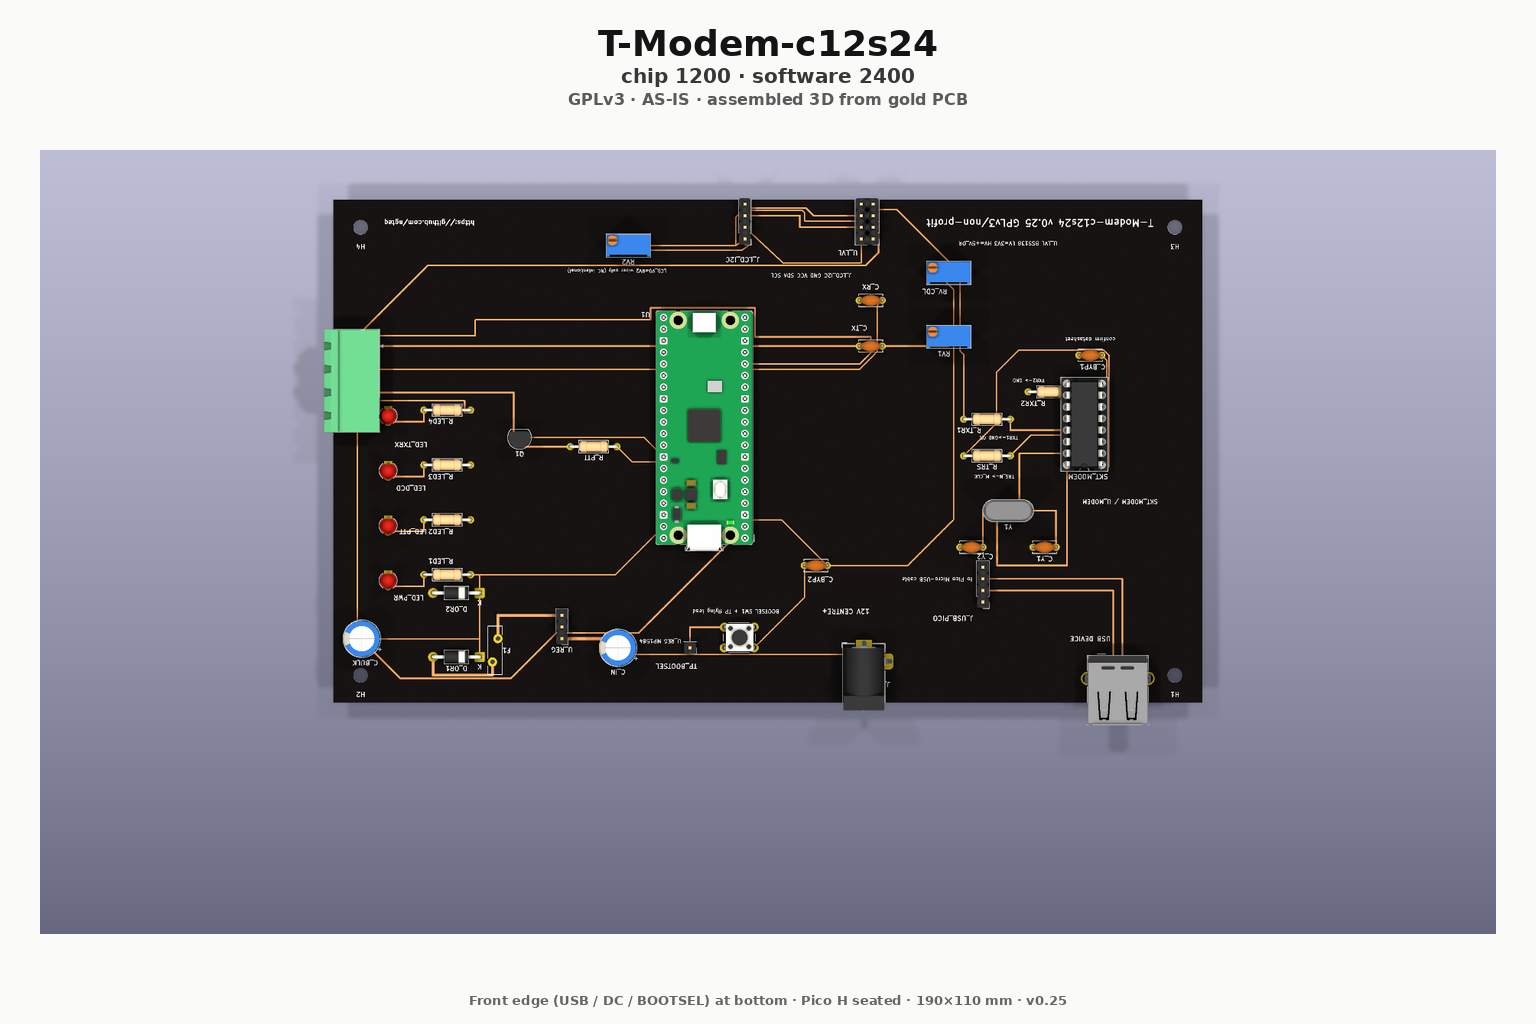
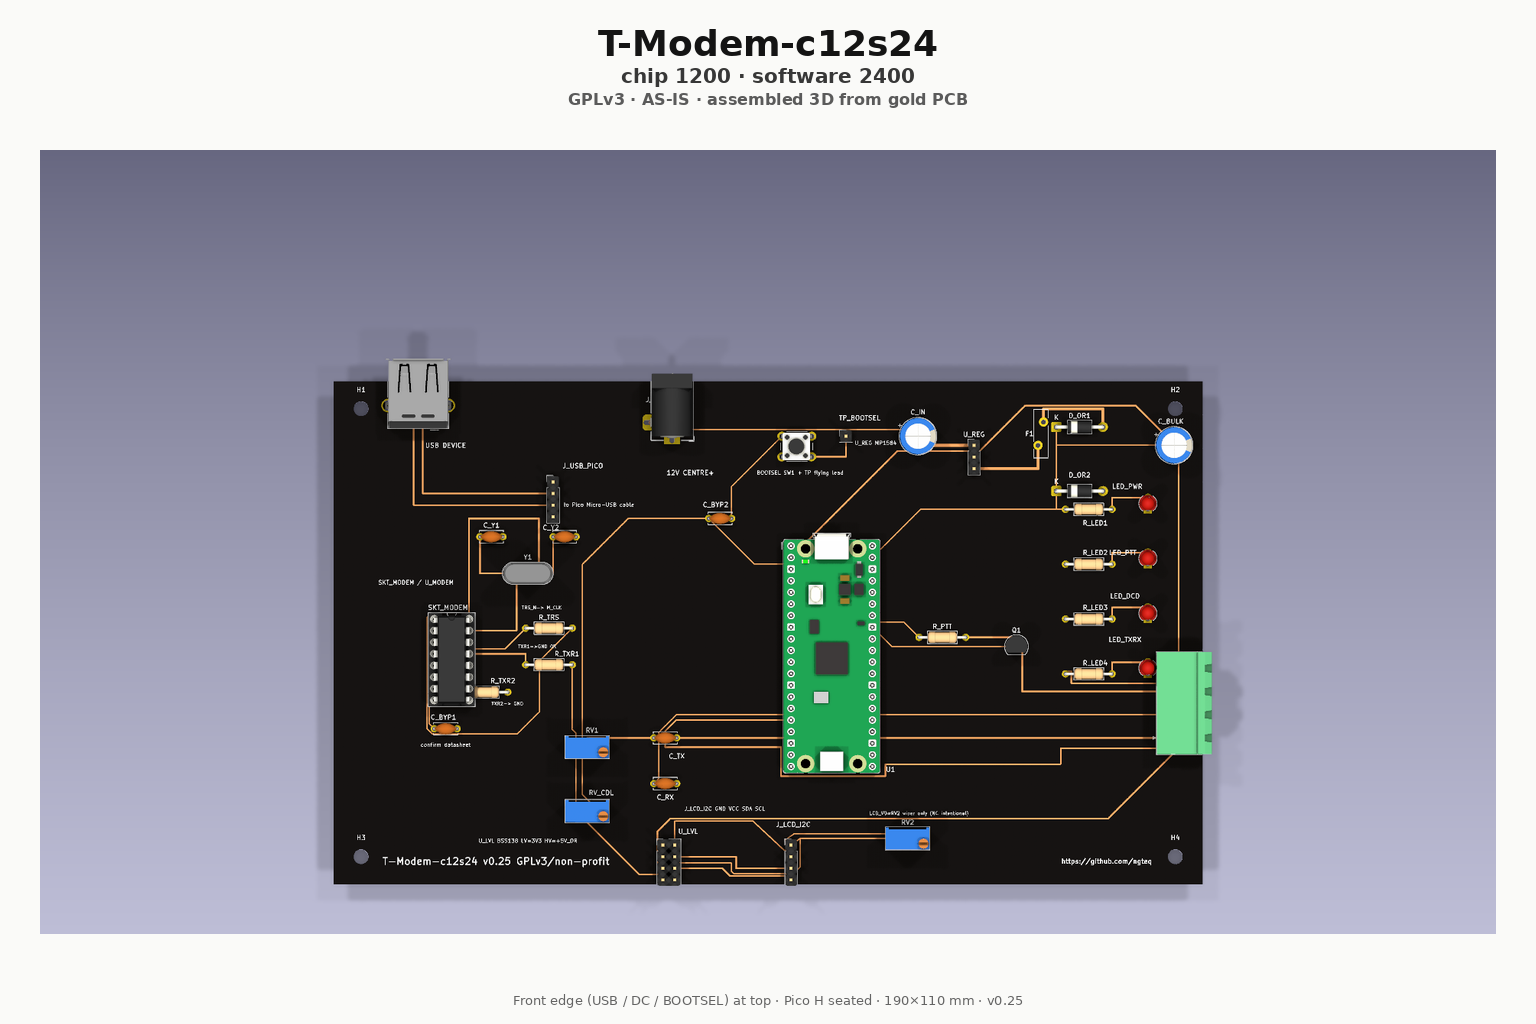
Rotate complete.png board 180° for upright silkscreen reading.
Camera yaw was 180° which put silk upside-down relative to title/footer; set render rotate to 0,0,0 and flip the composed board region so regenerates stay readable.

diff --git a/hardware/kicad/t-modem/scripts/render_docs_images.py b/hardware/kicad/t-modem/scripts/render_docs_images.py
@@ -151,7 +151,7 @@ def pcb_for_complete_render(tmp: Path) -> Path:
 
 
 def render_complete_3d() -> Image.Image:
-    """Raytraced assembled top view; rotate 180° so front edge is at image bottom."""
+    """Raytraced assembled top view; yaw 0 so silkscreen reads upright (front edge at top)."""
     md = model_dir()
     pico = Path(md) / "Module.3dshapes/RaspberryPi_Pico_H.step"
     if not pico.is_file():
@@ -185,7 +185,7 @@ def render_complete_3d() -> Image.Image:
             "--zoom",
             "0.92",
             "--rotate",
-            "0,0,180",
+            "0,0,0",
             "--define-var",
             f"KICAD10_3DMODEL_DIR={md}",
             str(pcb),
@@ -241,7 +241,7 @@ def compose_complete(raw: Image.Image) -> Image.Image:
         tw = bbox[2] - bbox[0]
         draw.text(((W - tw) // 2, y), text, fill=fill, font=font)
 
-    note = "Front edge (USB / DC / BOOTSEL) at bottom · Pico H seated · 190×110 mm · v0.25"
+    note = "Front edge (USB / DC / BOOTSEL) at top · Pico H seated · 190×110 mm · v0.25"
     fn = find_font(13)
     bbox = draw.textbbox((0, 0), note, font=fn)
     draw.text(((W - (bbox[2] - bbox[0])) // 2, H - 32), note, fill=(100, 100, 100), font=fn)